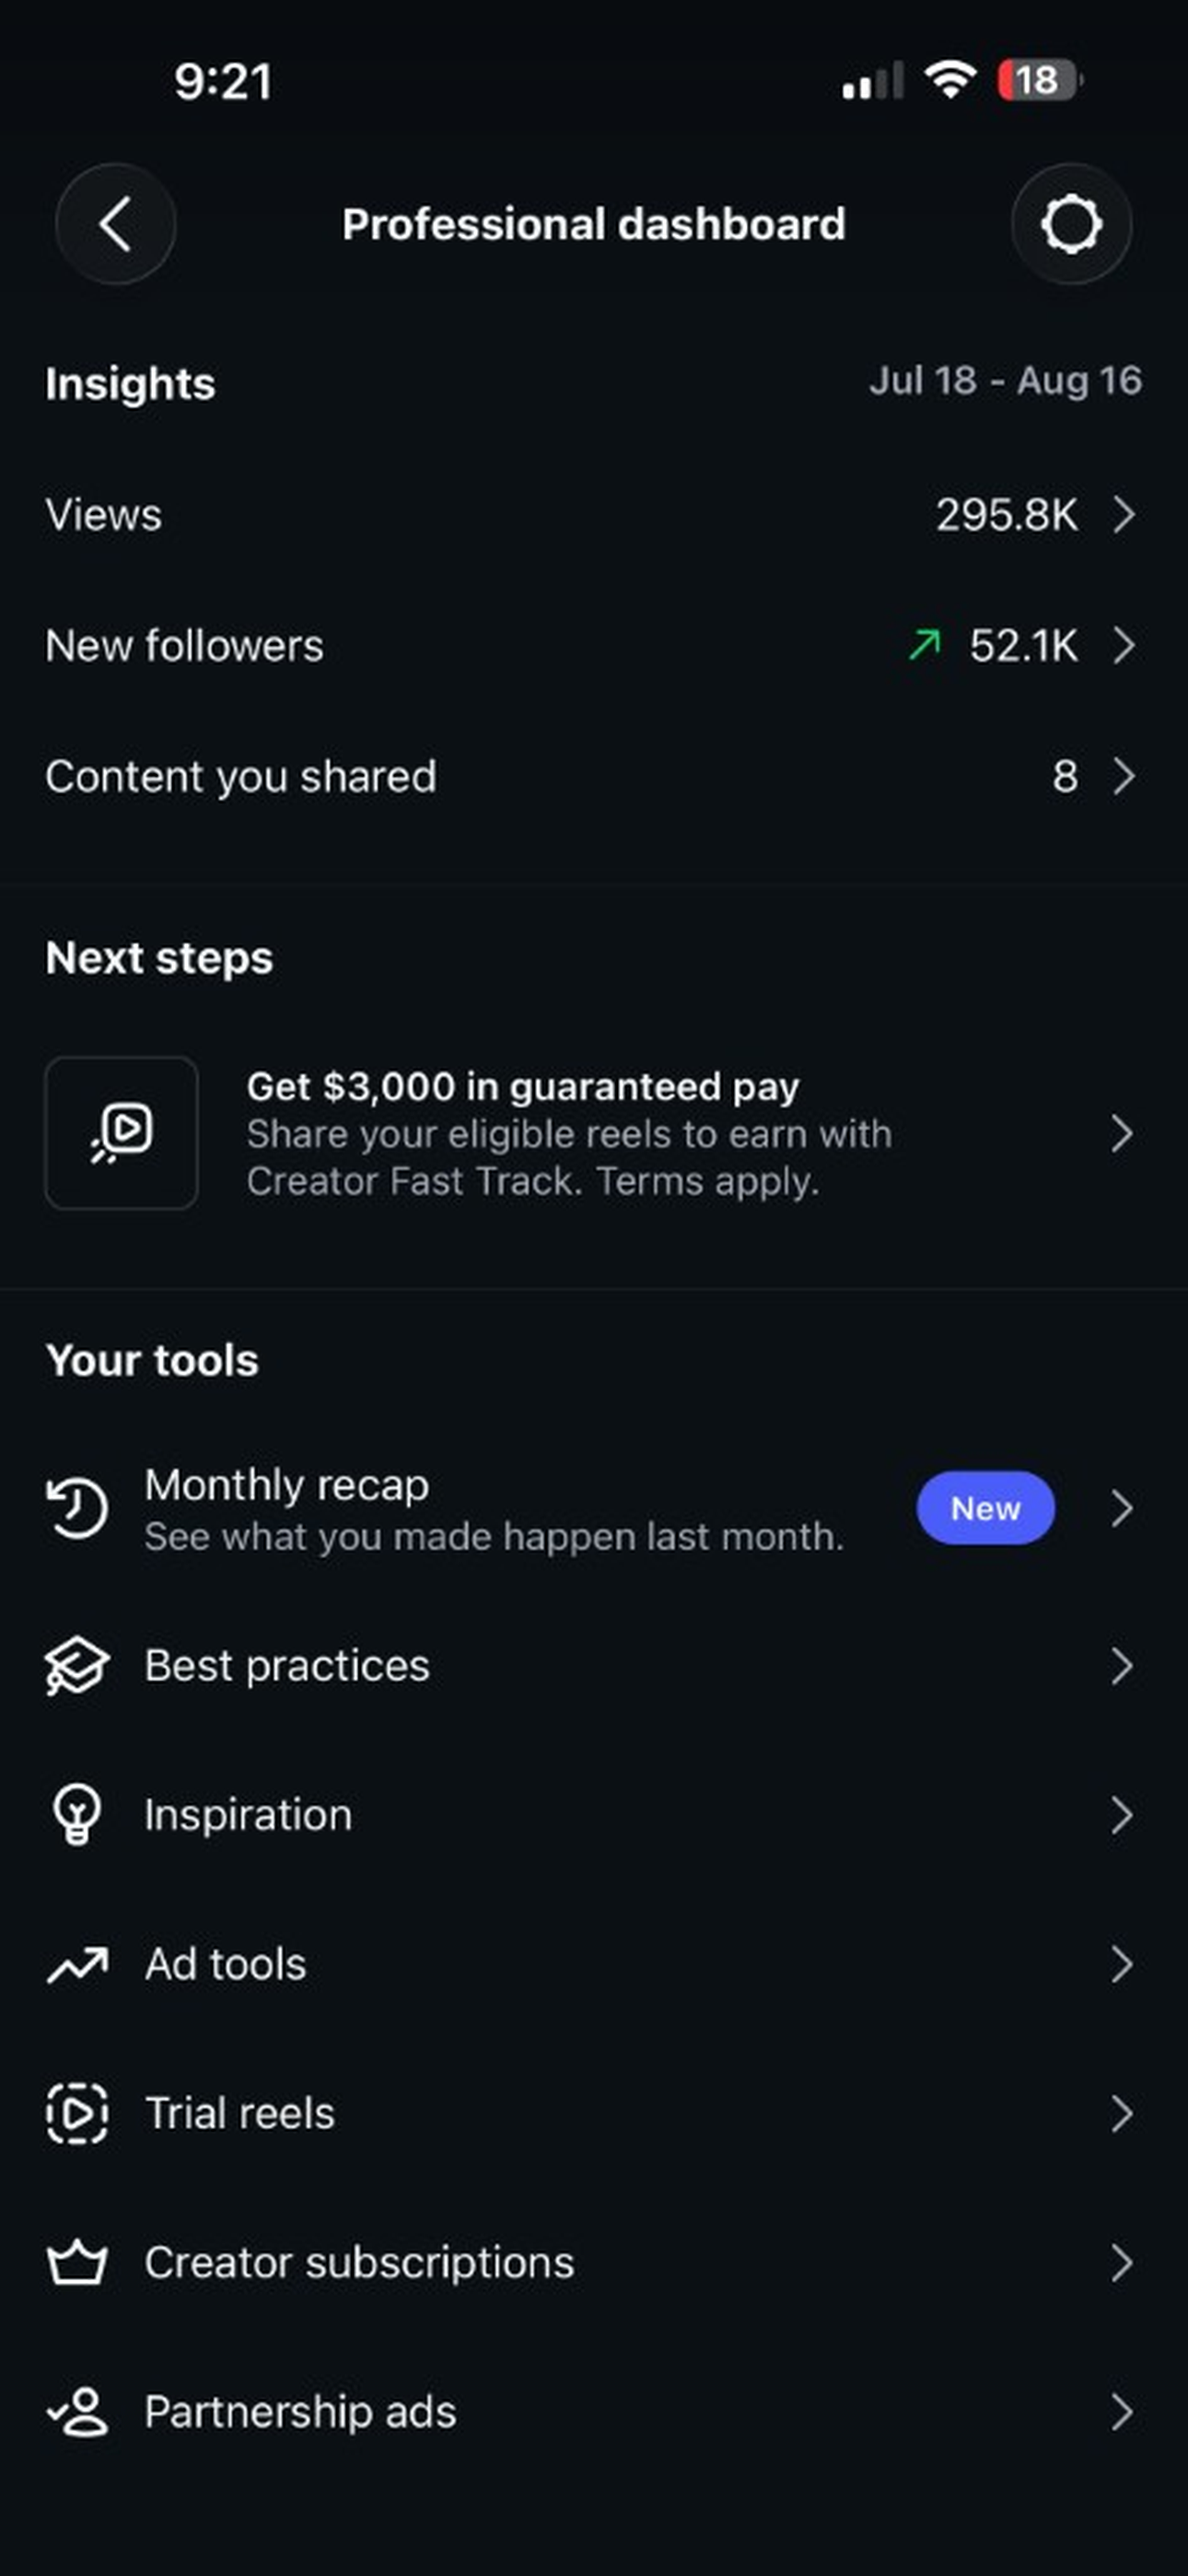
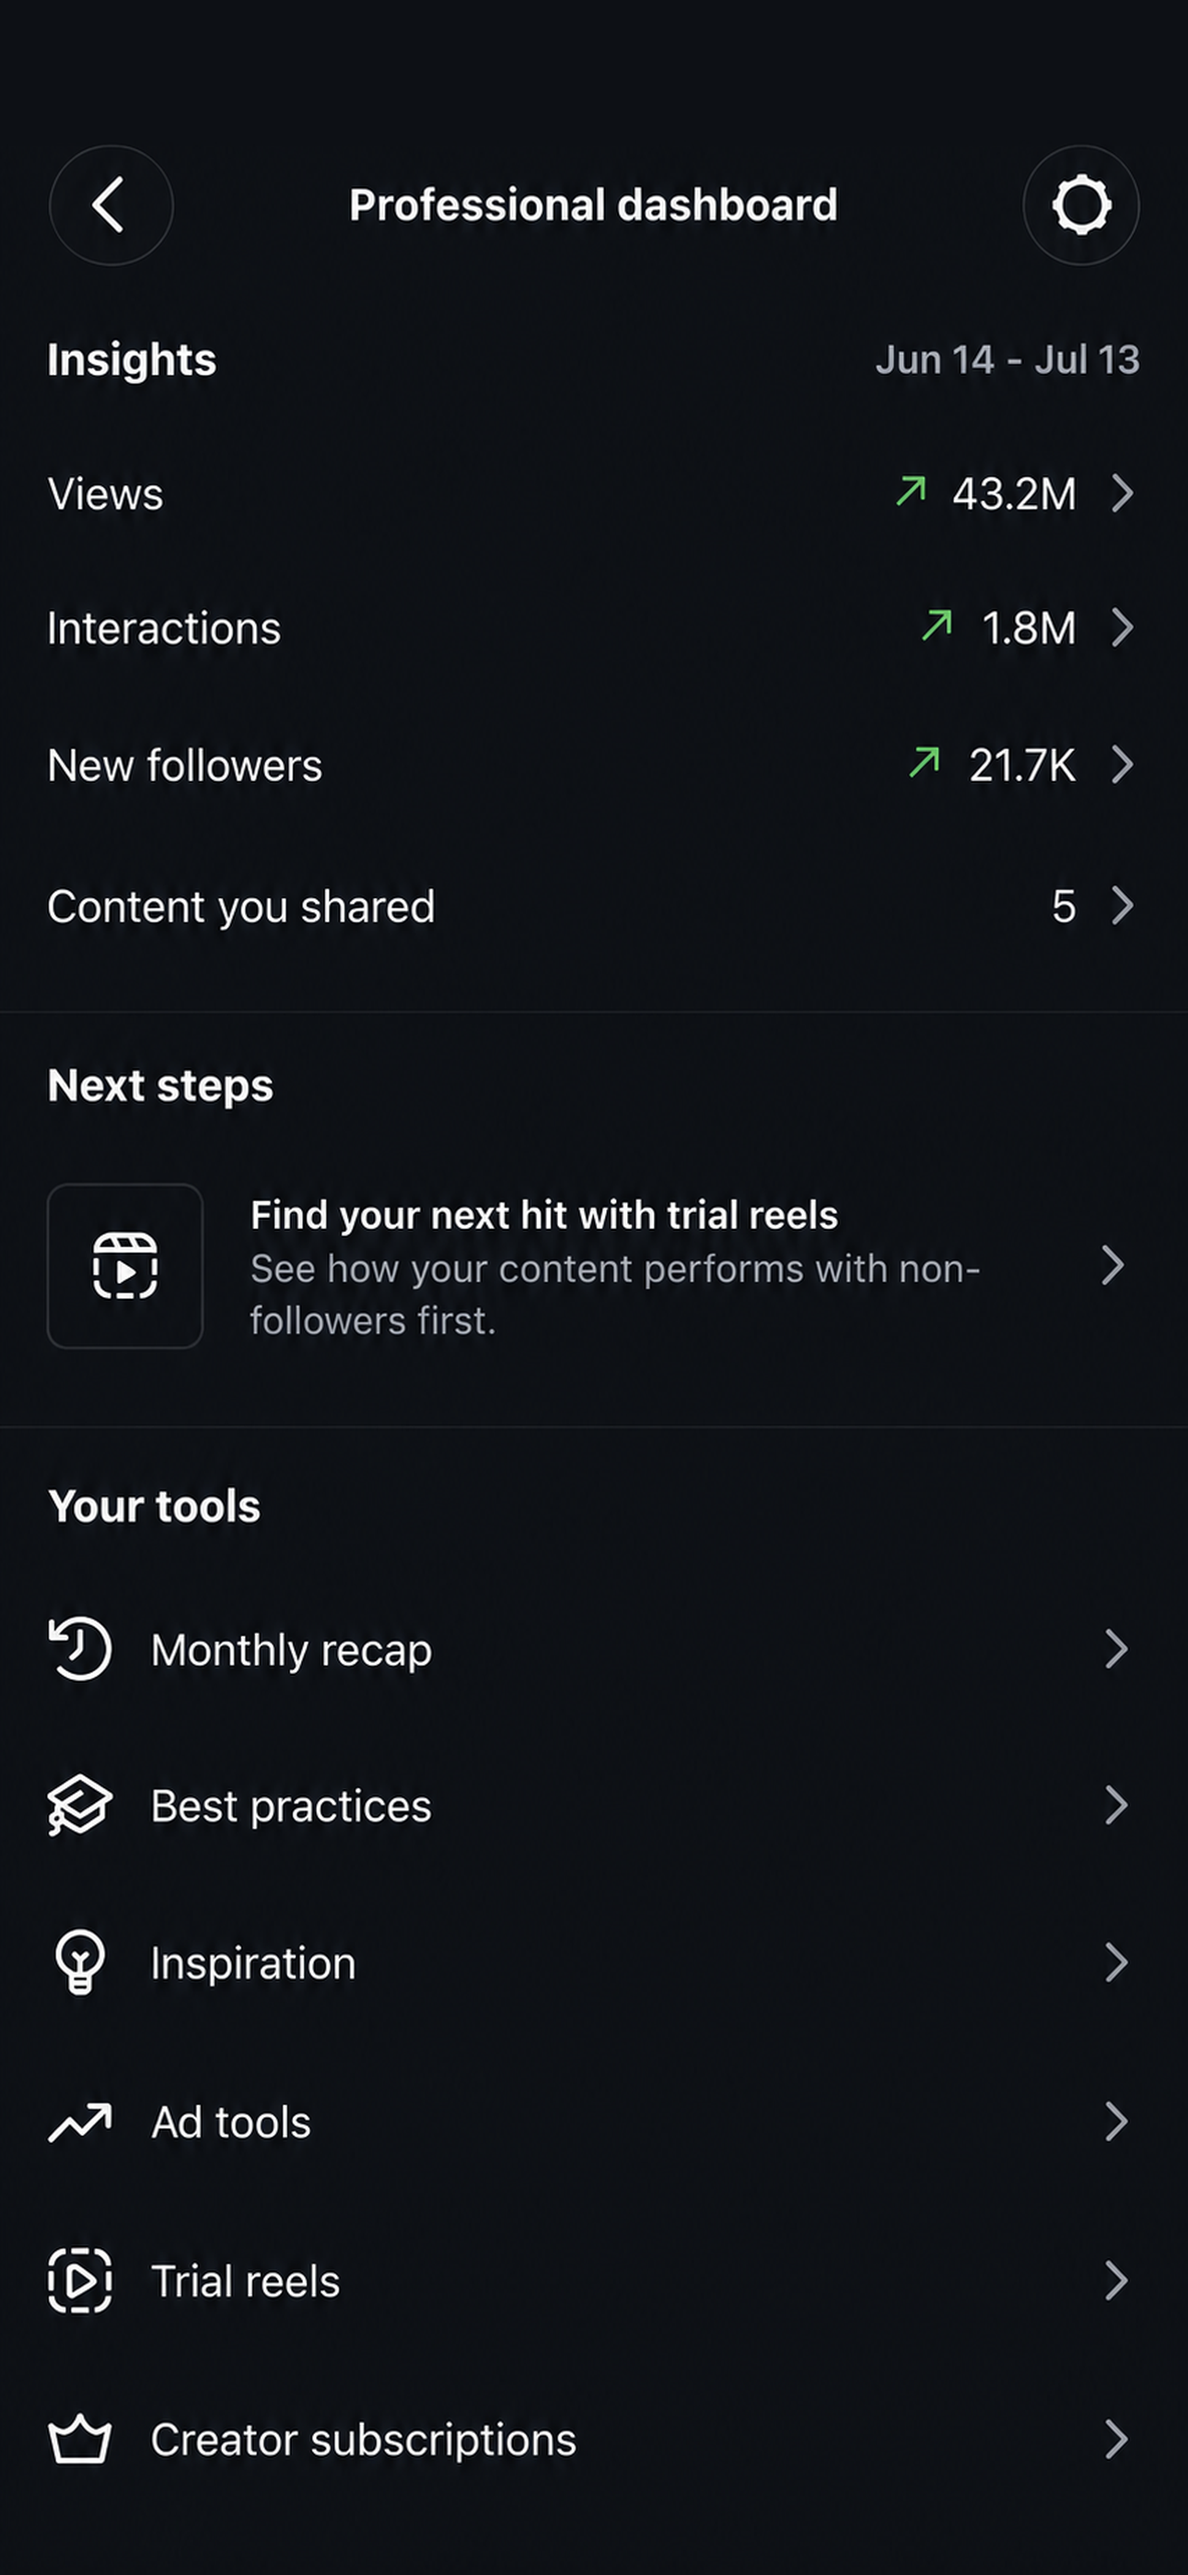
Revert "Swap /new home, profile, and dashboard to current IG captures."
This reverts commit c285febe800277ca59e7fd4cb963934de0c8cc20.

diff --git a/new.html b/new.html
@@ -11,12 +11,12 @@
 <meta name="mobile-web-app-capable" content="yes">
 <meta name="apple-mobile-web-app-status-bar-style" content="black-translucent">
 <meta name="theme-color" content="#000000">
-<link rel="manifest" href="manifest_new.json?v=43">
-<link rel="apple-touch-icon" href="icon.png?v=43">
+<link rel="manifest" href="manifest_new.json?v=42">
+<link rel="apple-touch-icon" href="icon.png?v=42">
 <!-- native iOS launch images: iOS shows these INSTANTLY on tap (before our HTML
      loads), killing the system gray phase. Pixel-identical to the in-page splash. -->
-<link rel="apple-touch-startup-image" media="screen and (device-width: 430px) and (device-height: 932px) and (-webkit-device-pixel-ratio: 3) and (orientation: portrait)" href="launch_1290x2796.png?v=43">
-<link rel="apple-touch-startup-image" media="screen and (device-width: 393px) and (device-height: 852px) and (-webkit-device-pixel-ratio: 3) and (orientation: portrait)" href="launch_1179x2556.png?v=43">
+<link rel="apple-touch-startup-image" media="screen and (device-width: 430px) and (device-height: 932px) and (-webkit-device-pixel-ratio: 3) and (orientation: portrait)" href="launch_1290x2796.png?v=42">
+<link rel="apple-touch-startup-image" media="screen and (device-width: 393px) and (device-height: 852px) and (-webkit-device-pixel-ratio: 3) and (orientation: portrait)" href="launch_1179x2556.png?v=42">
 <title>Instagram</title>
 <script>
 if('serviceWorker' in navigator){
@@ -70,14 +70,14 @@ if('serviceWorker' in navigator){
   /* interactions: pinned header (safe-area padding, tiled real-bg strip - the /new1
      pattern) + stitched content + swipe-snap Audience carousel */
   #intHdr{position:sticky;top:0;z-index:10;padding-top:env(safe-area-inset-top,0px);
-          background:#0c1115 url(screens/n_int_hdr_bg.png?v=43) repeat-y;background-size:100% 3px;}
+          background:#0c1115 url(screens/n_int_hdr_bg.png?v=42) repeat-y;background-size:100% 3px;}
   #intHdr img{display:block;width:100%;}
   /* carousel: two snap stops (Top cities at 0, Top countries at D=1066/1290 of the
      viewport). Drag and release -> the card settles into place; ends clamp. */
   #audSnap{width:100%;overflow-x:auto;overflow-y:hidden;scroll-snap-type:x mandatory;
            -webkit-overflow-scrolling:touch;background:#0c1115;}
   #audTrack{width:182.6357%;display:flex;aspect-ratio:2356/685;
-            background:url(screens/n_aud_strip.png?v=43) no-repeat;background-size:100% 100%;}
+            background:url(screens/n_aud_strip.png?v=42) no-repeat;background-size:100% 100%;}
   #audTrack .sA{width:45.2462%;scroll-snap-align:start;}
   #audTrack .sB{width:54.7538%;scroll-snap-align:start;}
 </style>
@@ -89,7 +89,7 @@ if('serviceWorker' in navigator){
     <!-- HOME -->
     <div class="screen active" id="s-home">
       <div class="sheet">
-        <img src="screens/n_home.png?v=43">
+        <img src="screens/n_home.png?v=42">
         <div class="hot" style="left:80%;top:89%;width:20%;height:9%" onclick="goProfile()"></div>
       </div>
     </div>
@@ -97,7 +97,7 @@ if('serviceWorker' in navigator){
     <!-- PROFILE -->
     <div class="screen navpad" id="s-profile">
       <div class="sheet">
-        <img src="screens/n_profile.png?v=43">
+        <img src="screens/n_profile.png?v=42">
         <div class="hot" style="left:3%;top:36%;width:94%;height:7%" onclick="goDashboard()"></div>
       </div>
     </div>
@@ -105,21 +105,21 @@ if('serviceWorker' in navigator){
     <!-- DASHBOARD -->
     <div class="screen" id="s-dashboard">
       <div class="sheet">
-        <img id="dashImg" src="screens/n_dash.png?v=43">
-        <!-- Views row -> insights. This capture has no Interactions row
-             (Views / New followers / Content). Leave the extra rows unwired. -->
-        <div class="hot" style="left:0;top:17.4%;width:100%;height:4.4%" onclick="goInsights()"></div>
+        <img id="dashImg" src="screens/n_dash.png?v=42">
+        <!-- Views row -> insights; Interactions row -> interactions page -->
+        <div class="hot" style="left:0;top:17.8%;width:100%;height:4.8%" onclick="goInsights()"></div>
+        <div class="hot" style="left:0;top:22.6%;width:100%;height:4.8%" onclick="goInteractions()"></div>
       </div>
     </div>
 
     <!-- INTERACTIONS -->
     <div class="screen navpad" id="s-interactions">
       <div id="intHdr">
-        <img src="screens/n_int_header.png?v=43">
+        <img src="screens/n_int_header.png?v=42">
         <div class="hot" style="left:0;top:0;width:16%;height:58%" onclick="goBackDash()"></div>
       </div>
       <div class="sheet">
-        <img src="screens/n_int_top.png?v=43">
+        <img src="screens/n_int_top.png?v=42">
       </div>
       <div id="audSnap">
         <div id="audTrack"><div class="sA"></div><div class="sB"></div></div>
@@ -130,12 +130,12 @@ if('serviceWorker' in navigator){
     <!-- INSIGHTS -->
     <div class="screen" id="s-insights">
       <div id="insHeader">
-        <img id="himg" src="insights_overview_header2.png?v=43">
+        <img id="himg" src="insights_overview_header2.png?v=42">
         <div class="hot" style="left:0;top:65%;width:33.3%;height:35%" onclick="insTab('overview')"></div>
         <div class="hot" style="left:66.7%;top:65%;width:33.3%;height:35%" onclick="insTab('audience')"></div>
       </div>
-      <div id="insContent"><img id="cimg" src="insights_overview_full.png?v=43"></div>
-      <div id="insLoading"><img id="loadImg" src="screens/ins_spinner_c.png?v=43"></div>
+      <div id="insContent"><img id="cimg" src="insights_overview_full.png?v=42"></div>
+      <div id="insLoading"><img id="loadImg" src="screens/ins_spinner_c.png?v=42"></div>
     </div>
 
   </div>
@@ -205,7 +205,7 @@ if('serviceWorker' in navigator){
     document.body.style.background = '#0d1115';
   });
 
-  const ASSET_V = '?v=43';   // bump when any screen image changes (cache-bust mobile)
+  const ASSET_V = '?v=42';   // bump when any screen image changes (cache-bust mobile)
   const el = id => document.getElementById(id);
   // Flow-model navigation: exactly one screen is .active (in normal flow, so it sets
   // the document height and iOS places the safe areas naturally). Transitions overlay

diff --git a/sw.js b/sw.js
@@ -4,7 +4,7 @@
 // background. If the background refresh finds a NEW app shell, clients are notified
 // so they can silently reload while the splash still covers the screen.
 // Bump CACHE on each deploy; activate purges older caches.
-const CACHE = 'ig-v43';
+const CACHE = 'ig-v42';
 
 self.addEventListener('install', () => self.skipWaiting());
 

diff --git a/config.js b/config.js
@@ -11,7 +11,7 @@
 //  Defaults below are the original traeleg values.
 // ============================================================
 window.STATS = {
-  posts:     "63",
-  followers: "223K",
-  following: "78",
+  posts:     "47",
+  followers: "183K",
+  following: "76",
 };
